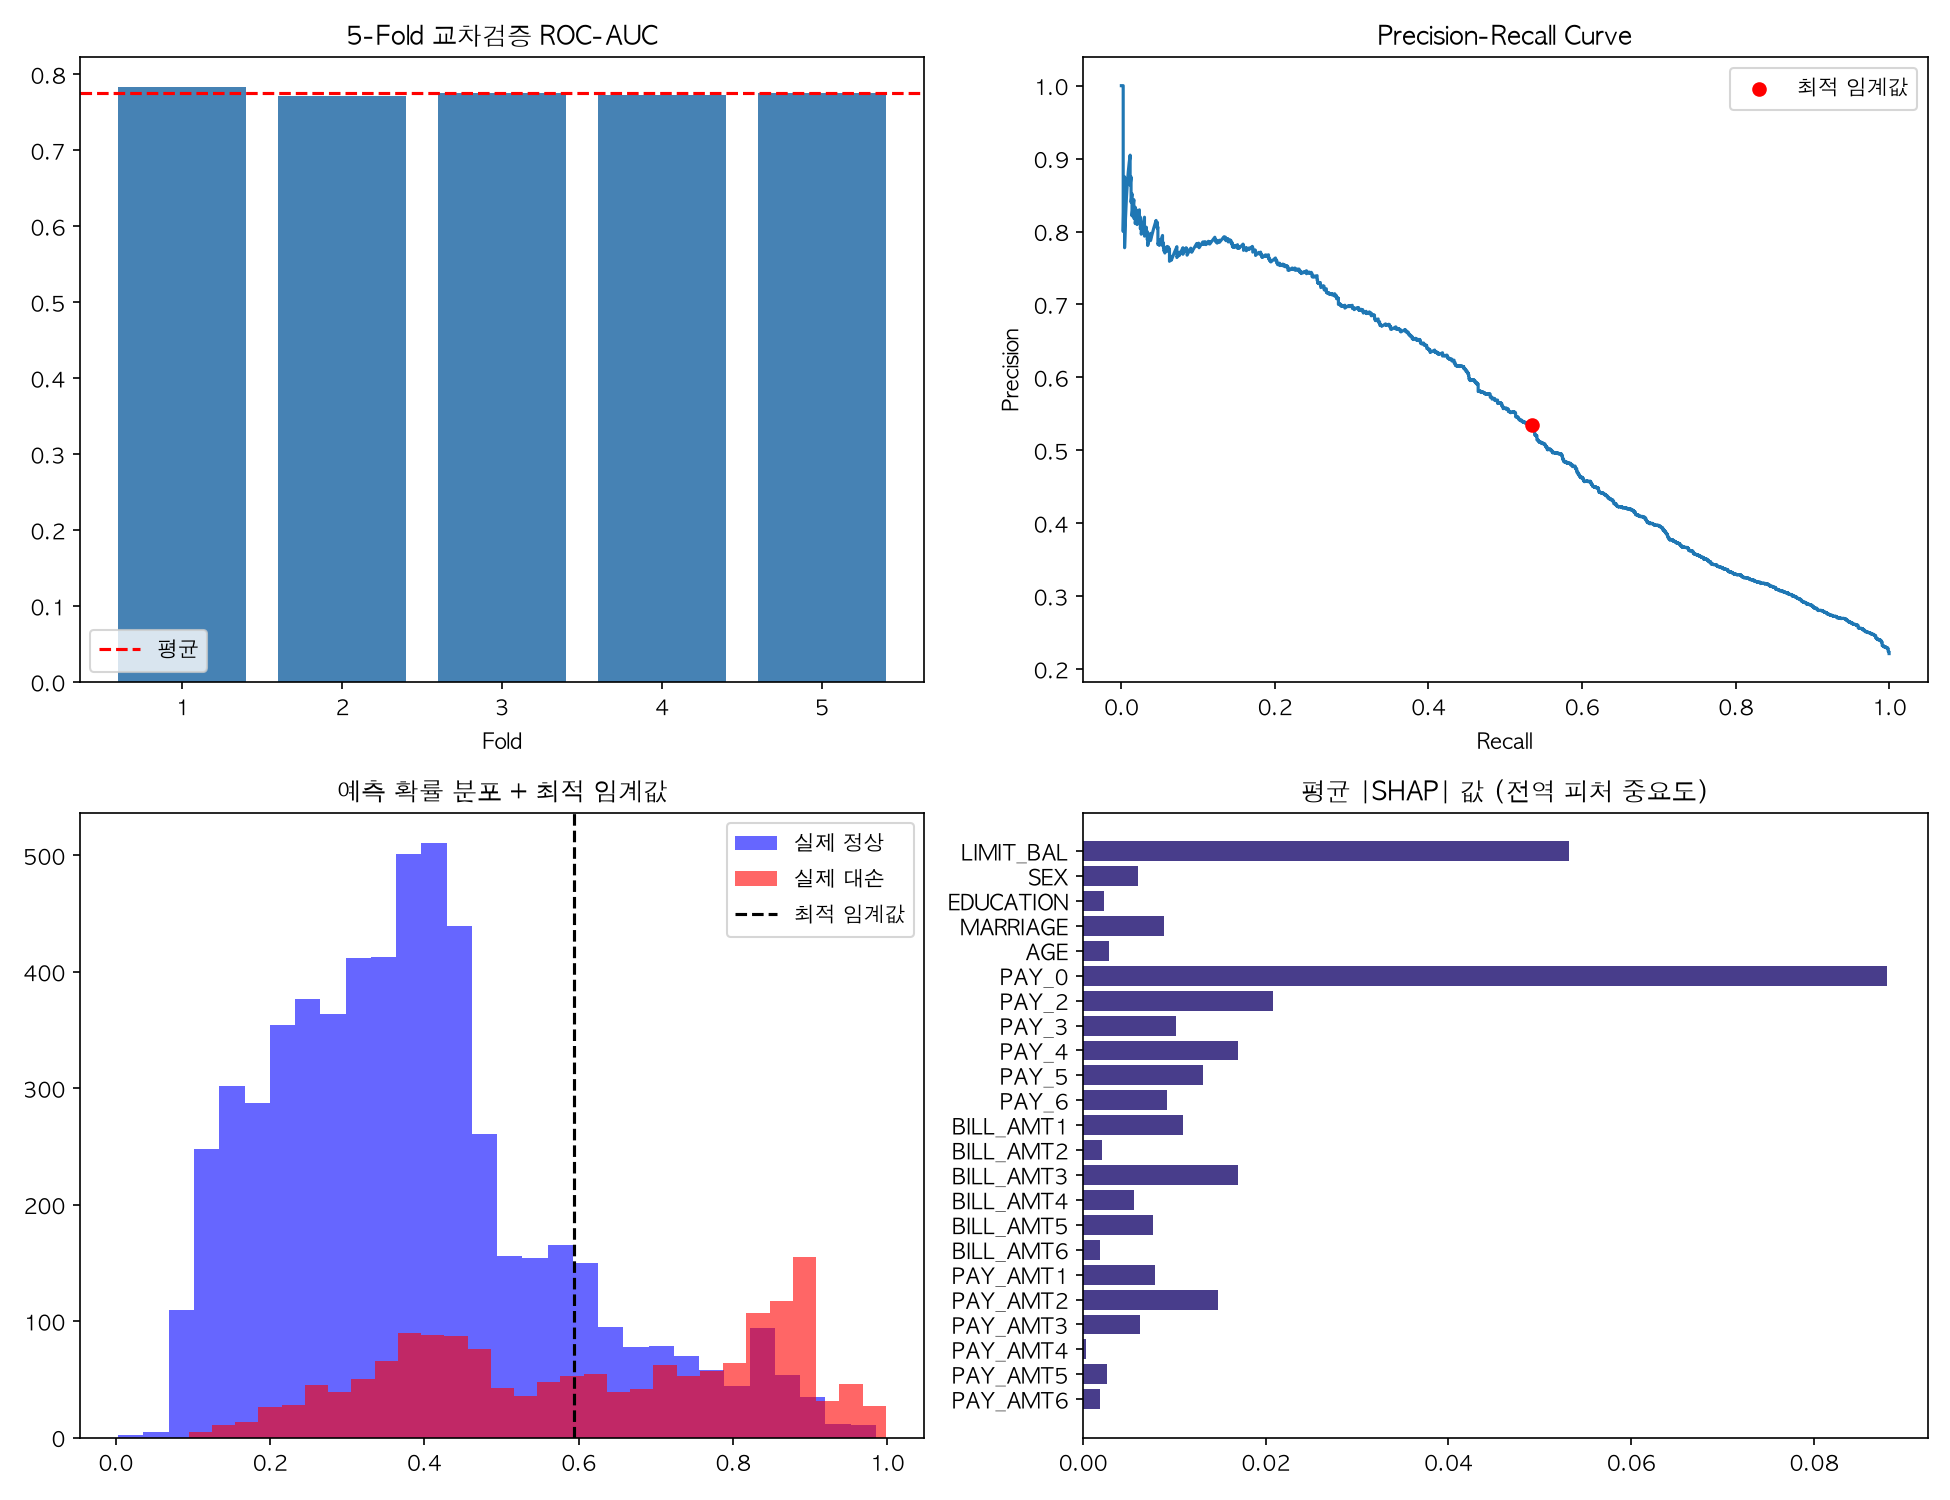
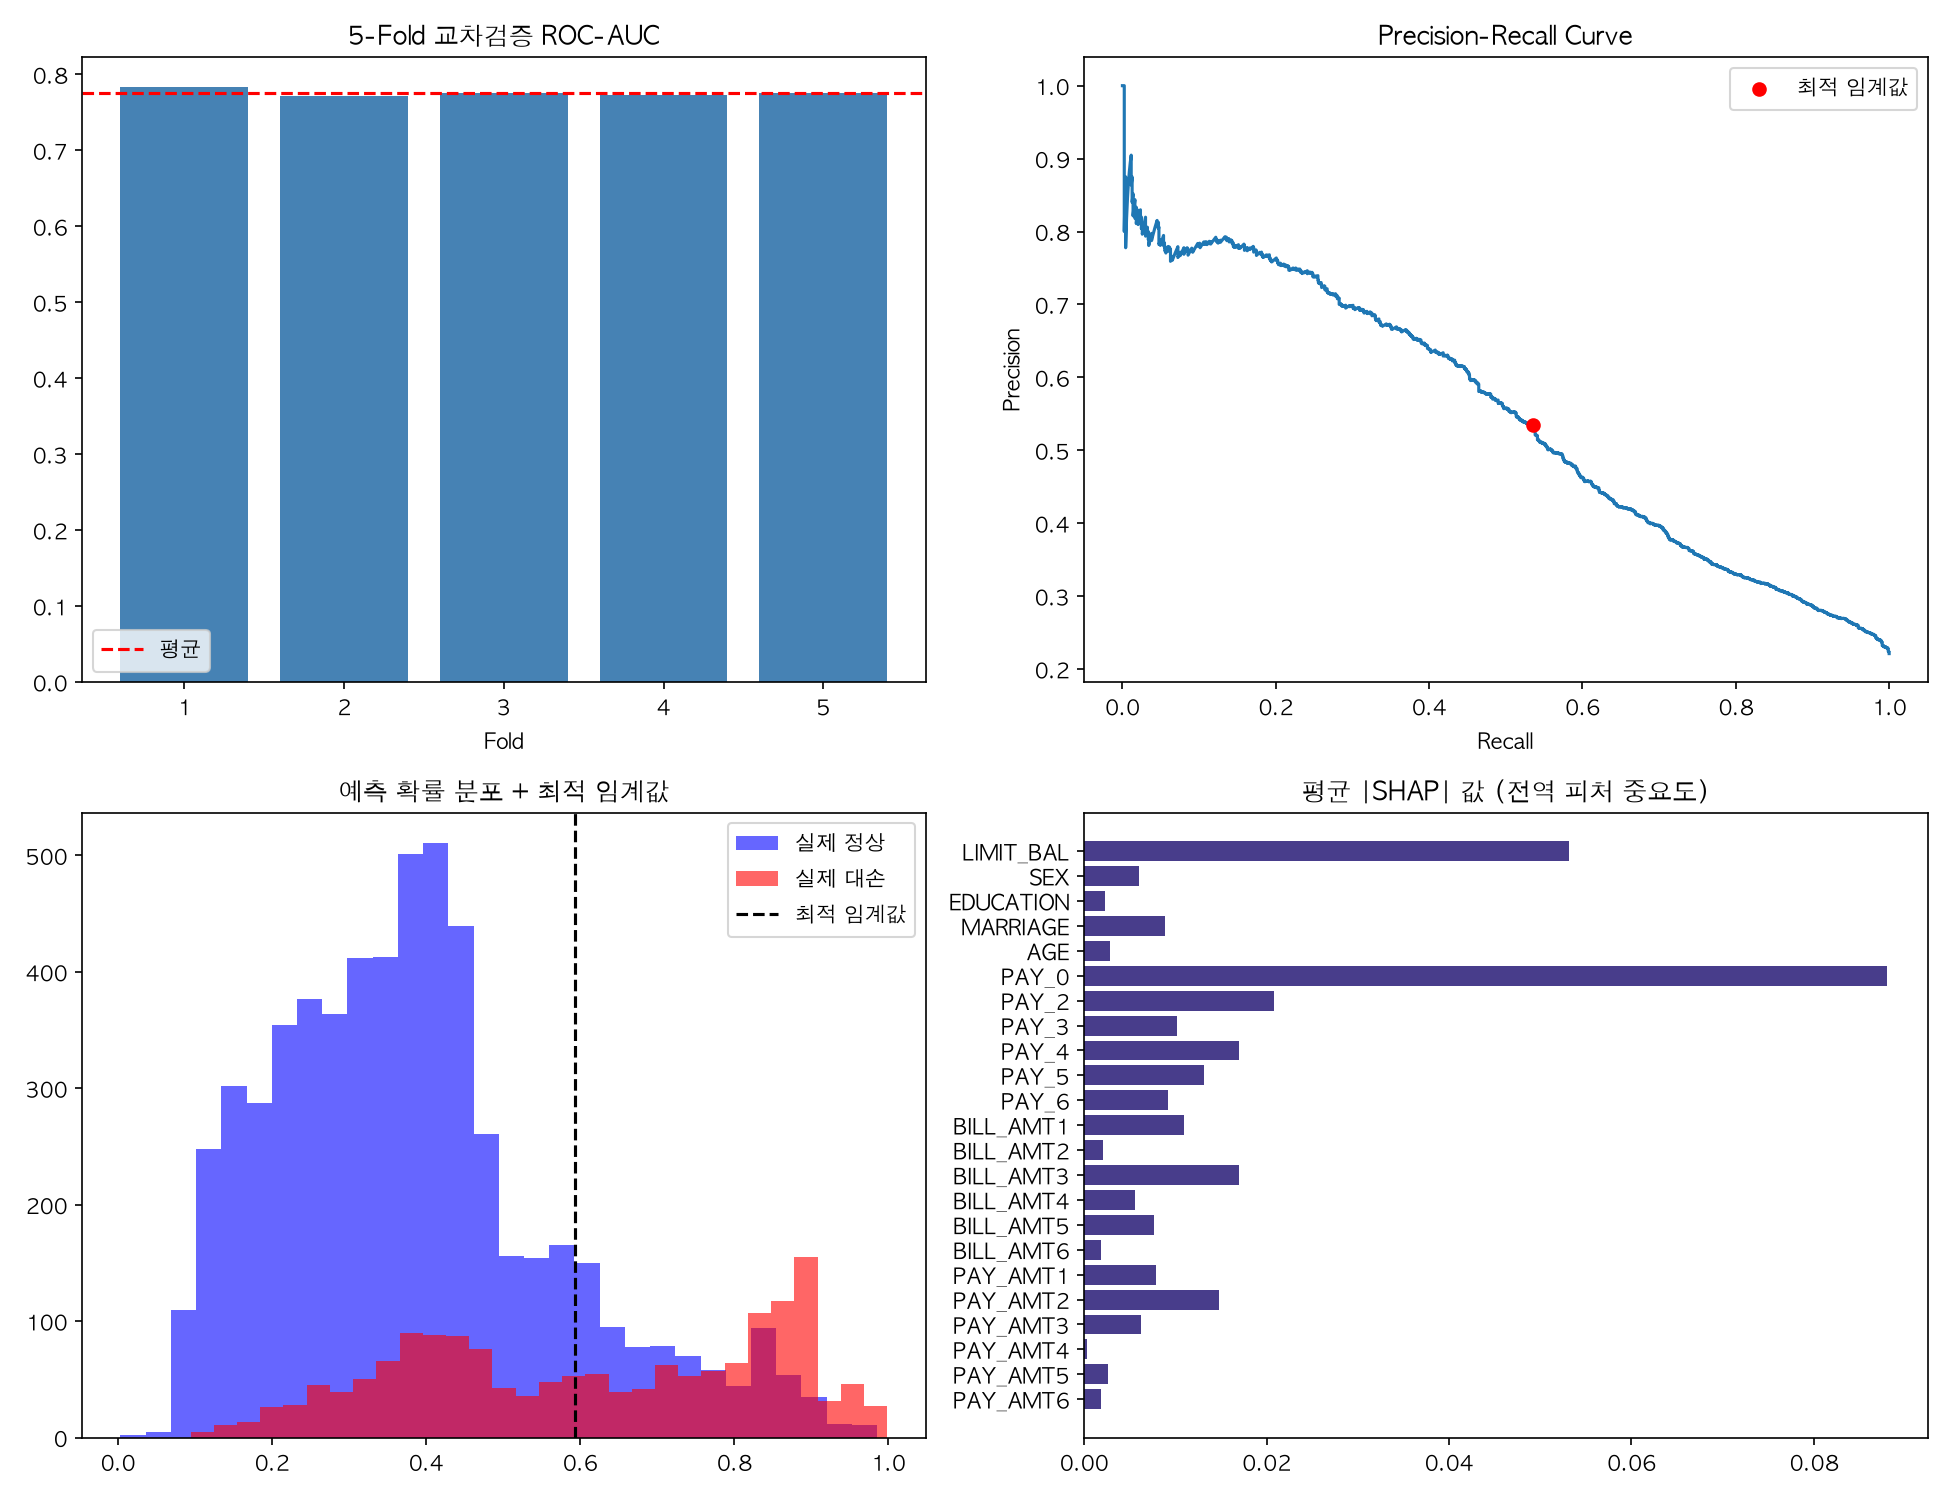
Add interactive Streamlit demo app

diff --git a/app.py b/app.py
@@ -1,0 +1,76 @@
+"""
+Streamlit 인터랙티브 데모: 신용카드 대손 위험 예측기
+채용담당자가 코드를 몰라도 브라우저에서 직접 값을 조정하며 체험할 수 있습니다.
+"""
+import streamlit as st
+import torch
+import numpy as np
+import joblib
+import shap
+import matplotlib.pyplot as plt
+from credit_risk_v2 import CreditRiskNet
+
+plt.rcParams["font.family"] = "AppleGothic"
+plt.rcParams["axes.unicode_minus"] = False
+
+st.set_page_config(page_title="신용카드 대손 위험 예측기", layout="wide")
+st.title("신용카드 대손(Default) 위험 예측 데모")
+st.caption("PyTorch MLP + SHAP 기반 설명가능성 | 카드사 리스크관리 실무 시나리오")
+
[email redacted]_resource
+def load_artifacts():
+    scaler = joblib.load("scaler.pkl")
+    feature_cols = joblib.load("feature_cols.pkl")
+    threshold = joblib.load("threshold.pkl")
+    model = CreditRiskNet(len(feature_cols))
+    model.load_state_dict(torch.load("credit_risk_model.pt"))
+    model.eval()
+    return model, scaler, feature_cols, threshold
+
+model, scaler, feature_cols, threshold = load_artifacts()
+
+st.sidebar.header("고객 프로필 입력")
+input_values = {}
+defaults = {"LIMIT_BAL": 50000, "AGE": 35, "PAY_0": 0, "BILL_AMT1": 30000, "PAY_AMT1": 3000}
+for col in feature_cols:
+    default_val = defaults.get(col, 0)
+    input_values[col] = st.sidebar.number_input(col, value=float(default_val))
+
+if st.sidebar.button("위험도 예측", type="primary"):
+    x = np.array([[input_values[c] for c in feature_cols]], dtype=np.float32)
+    x_scaled = scaler.transform(x)
+
+    with torch.no_grad():
+        prob = torch.sigmoid(model(torch.tensor(x_scaled, dtype=torch.float32))).item()
+
+    col1, col2 = st.columns(2)
+    with col1:
+        st.metric("예측 대손 확률", f"{prob:.1%}")
+        if prob > threshold:
+            st.error(f"고위험 고객 (임계값 {threshold:.1%} 초과)")
+        else:
+            st.success(f"정상 위험 수준 (임계값 {threshold:.1%} 이하)")
+
+    with col2:
+        st.write("**입력된 프로필**")
+        st.json(input_values)
+
+    st.subheader("이 예측의 근거 (SHAP)")
+    def model_predict(x_numpy):
+        with torch.no_grad():
+            return torch.sigmoid(model(torch.tensor(x_numpy, dtype=torch.float32))).numpy().ravel()
+
+    background = np.tile(x_scaled, (20, 1)) + np.random.normal(0, 0.1, (20, x_scaled.shape[1]))
+    explainer = shap.KernelExplainer(model_predict, background)
+    shap_val = explainer.shap_values(x_scaled, nsamples=50)
+
+    fig, ax = plt.subplots(figsize=(8, 4))
+    shap_val_flat = np.array(shap_val).ravel()
+    colors = ["crimson" if v > 0 else "steelblue" for v in shap_val_flat]
+    ax.barh(feature_cols, shap_val_flat, color=colors)
+    ax.set_title("각 피처가 대손 확률을 얼마나 높이거나(빨강) 낮췄는지(파랑)")
+    ax.axvline(0, color="black", linewidth=0.8)
+    st.pyplot(fig)
+
+st.divider()
+st.caption("이 데모는 실제 서비스가 아닌 포트폴리오 목적의 프로토타입입니다.")